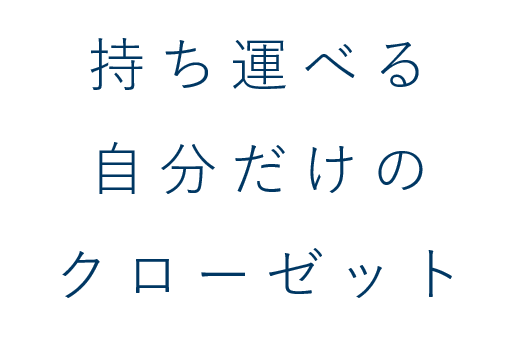
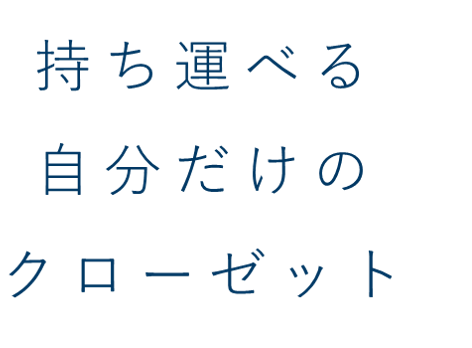
ホーム画面体裁整え

diff --git a/app/assets/stylesheets/application.css b/app/assets/stylesheets/application.css
@@ -26,11 +26,16 @@
   padding: 0;
   height:100%;
   width:100%;
-  font-family: 'OCRB',"Hiragino Kaku Gothic Pro", "ヒラギノ角ゴ Pro W3", メイリオ, Meiryo;
+  font-family: "游ゴシック体", YuGothic, "游ゴシック Medium", "Yu Gothic Medium", "游ゴシック", "Yu Gothic", sans-serif;
   cursor: url(/cursor.cur),auto;
   background-color: #fffcf2;
   font-size: 15px;
   color: #003763;
+  position: relative; 
+  width: 100%; 
+  height: auto !important;
+  height: 100%; 
+  min-height: 100%;
 }
 
 ul, ol {
@@ -38,7 +43,7 @@ ul, ol {
 }
 
 a{
-  color: inherit;
+  color : inherit;
 }
  /* リセット用CSSココマデ*/
 
@@ -50,7 +55,7 @@ a{
 div {
   padding: 0 30px;
 }
-.head {
+.header {
   display: flex;
   height:60px;
   align-items: center;
@@ -59,14 +64,14 @@ div {
 .header_menu {
   margin-left: auto;
 }
-.head ul {
+.header ul {
   display: flex;
 }
-.head ul li {
+.header ul li {
   margin-left: 10px;
 }
 
-.head li{
+.header li{
   width: 140px;
   font-size: 20px;
   text-align: center;
@@ -76,7 +81,7 @@ div {
   border-radius:10px;
 }
 
-.head li:active{
+.header li:active{
   width: 140px;
   font-size: 20px;
   text-align: center;
@@ -88,20 +93,33 @@ div {
 
 .button{
   color: #003763;
+  display: block;
 }
 /*ヘッダ設定ココマデ*/
 /*ページ共通設定ココカラ*/
-.container{
-  width:100%;
-  height: 100%;
-}
-.debug-info{
-  clear:both;
-  bottom: 0;
-}
 .main{
   position: relative;
+  padding-top: 60px;
+  padding-bottom: 100px;
 }
+
+.ui.container{
+  margin-left: 200px;
+  margin-right: 200px;
+}
+
+.debug-info{
+  display:inline-block;
+  font-size: 15px;
+  padding: 5px;
+  border:3px solid;
+  border-color: #e8e5db #fffffd #fffffd #e8e5db;
+  border-radius:10px;
+  color: #003763;
+  display: block;
+}
+
+
 /*ページ共通設定ココマデ*/
 /*フッター設定ココカラ*/
 
@@ -110,6 +128,7 @@ div {
   bottom: 0; /*下に固定*/
   height: 30px; /*高さ指定*/
   width: 100%; /*幅指定*/
+  margin-top: 100px;
 }
 div.copy{
   width: 50px; /*幅指定しないと中央に寄らない（ブロック要素の場が100%以上に見えるから）*/

diff --git a/app/assets/stylesheets/shared.css b/app/assets/stylesheets/shared.css
@@ -8,7 +8,6 @@
   border-radius:10px;
   background-color: #fffcf2;
   color: #003763;
-  font-family: 'OCRB';
 }
 
 .login_button:active{
@@ -19,26 +18,20 @@
   border:3px solid;
   border-color: #e8e5db #fffffd #fffffd #e8e5db;
   border-radius:10px;
-  font-family: 'OCRB';
 }
 
 .form{
   margin-bottom: 30px;
 }
+.button{
+  font-family: "游ゴシック体", YuGothic, "游ゴシック Medium", "Yu Gothic Medium", "游ゴシック", "Yu Gothic", sans-serif;
+}
+
 
 .login_submit{
   margin-left: 75px;
 }
 
-.login_signnup{
-  margin-top: 50px;
-  margin-bottom: 30px;
-  margin-left: 75px;
-}
-a.new_signnup{
-  width: 140px;
-  height: 39px;
-}
 
 .form-control{
   background-color: #fffcf2;
@@ -49,6 +42,7 @@ a.new_signnup{
 }
 
 .login_signnup{
+  margin-left: 75px;
   color: #fffcf2;
 }
 
@@ -75,4 +69,14 @@ a.new_signnup{
   border:3px solid;
   border-color: #001c33 #0060ad #0060ad #001c33;
   border-radius:10px;
+}
+
+.new_button{
+  color:#fffcf2;
+}
+
+
+.test_button{
+  width:auto;
+  margin-right: 30px;
 }

diff --git a/app/assets/stylesheets/home.css b/app/assets/stylesheets/home.css
@@ -3,11 +3,18 @@
   width: 100%;
   height: 550px;
   display: flex;
+  padding-left: 0px;
 }
+.signup_button{
+  display: block;
+}
+
 .home_image{
-  width: 50%;
   margin-top: 30px;
-  margin-left: 30px;
+  margin-left: auto;
+  margin-right: auto;
+  padding-left: 0;
+  margin-right: 100px;
 }
 .home_menu_waku{
   width: 50%;
@@ -15,4 +22,7 @@
 .home_menu{
   margin-top: 110px;
   margin-left: 60px;
+}
+.image{
+  margin-left: 0px;
 }

diff --git a/public/404.html b/public/404.html
@@ -8,7 +8,7 @@
     background-color: #EFEFEF;
     color: #2E2F30;
     text-align: center;
-    font-family: arial, sans-serif;
+    font-family: "游ゴシック体", YuGothic, "游ゴシック Medium", "Yu Gothic Medium", "游ゴシック", "Yu Gothic", sans-serif;
     margin: 0;
   }
 

diff --git a/public/422.html b/public/422.html
@@ -8,7 +8,7 @@
     background-color: #EFEFEF;
     color: #2E2F30;
     text-align: center;
-    font-family: arial, sans-serif;
+    font-family: "游ゴシック体", YuGothic, "游ゴシック Medium", "Yu Gothic Medium", "游ゴシック", "Yu Gothic", sans-serif;
     margin: 0;
   }
 

diff --git a/public/500.html b/public/500.html
@@ -8,7 +8,7 @@
     background-color: #EFEFEF;
     color: #2E2F30;
     text-align: center;
-    font-family: arial, sans-serif;
+    font-family: "游ゴシック体", YuGothic, "游ゴシック Medium", "Yu Gothic Medium", "游ゴシック", "Yu Gothic", sans-serif;
     margin: 0;
   }
 

diff --git a/app/assets/stylesheets/user.css b/app/assets/stylesheets/user.css
@@ -1,0 +1,9 @@
+.user_index{
+  text-align: center;
+}
+
+.user_index li{
+  margin-right: auto;
+  margin-left: auto;
+  display: block;
+}
